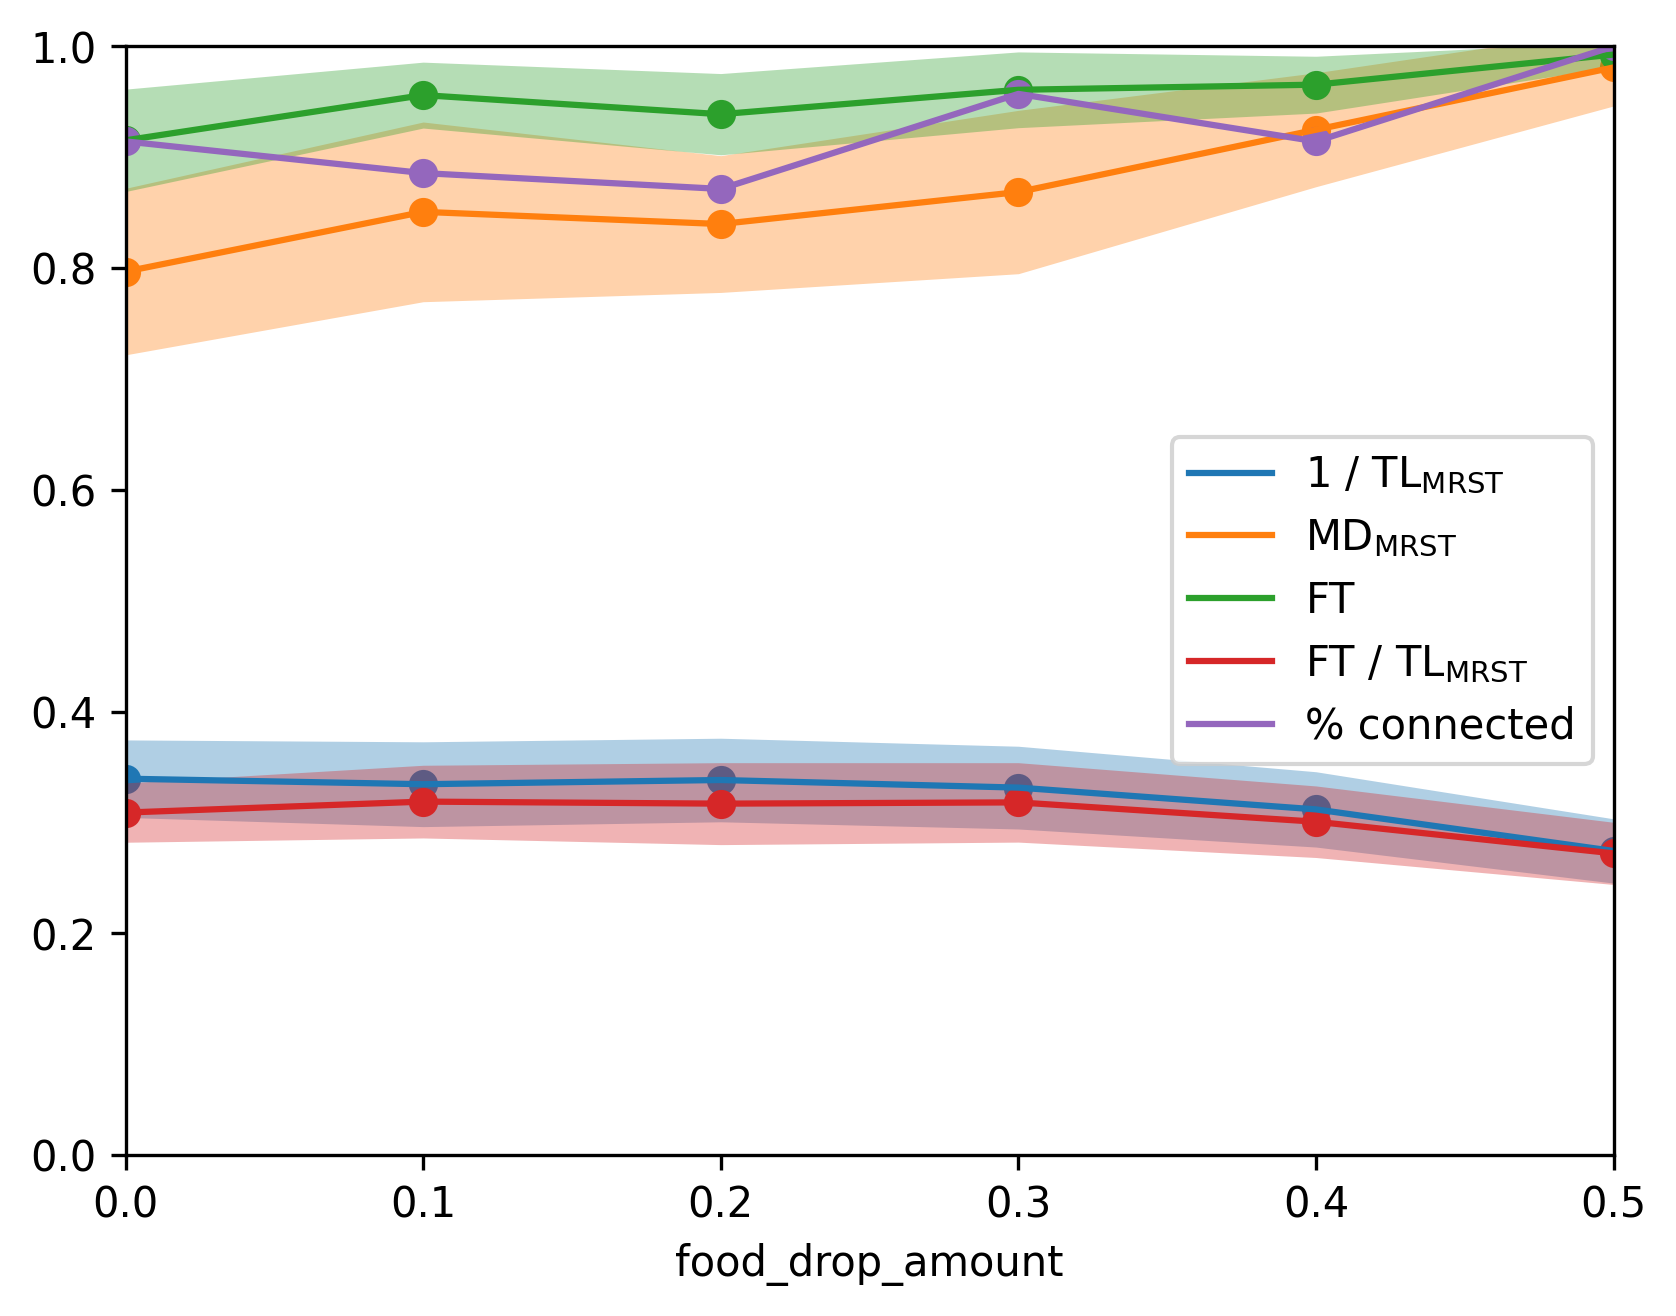
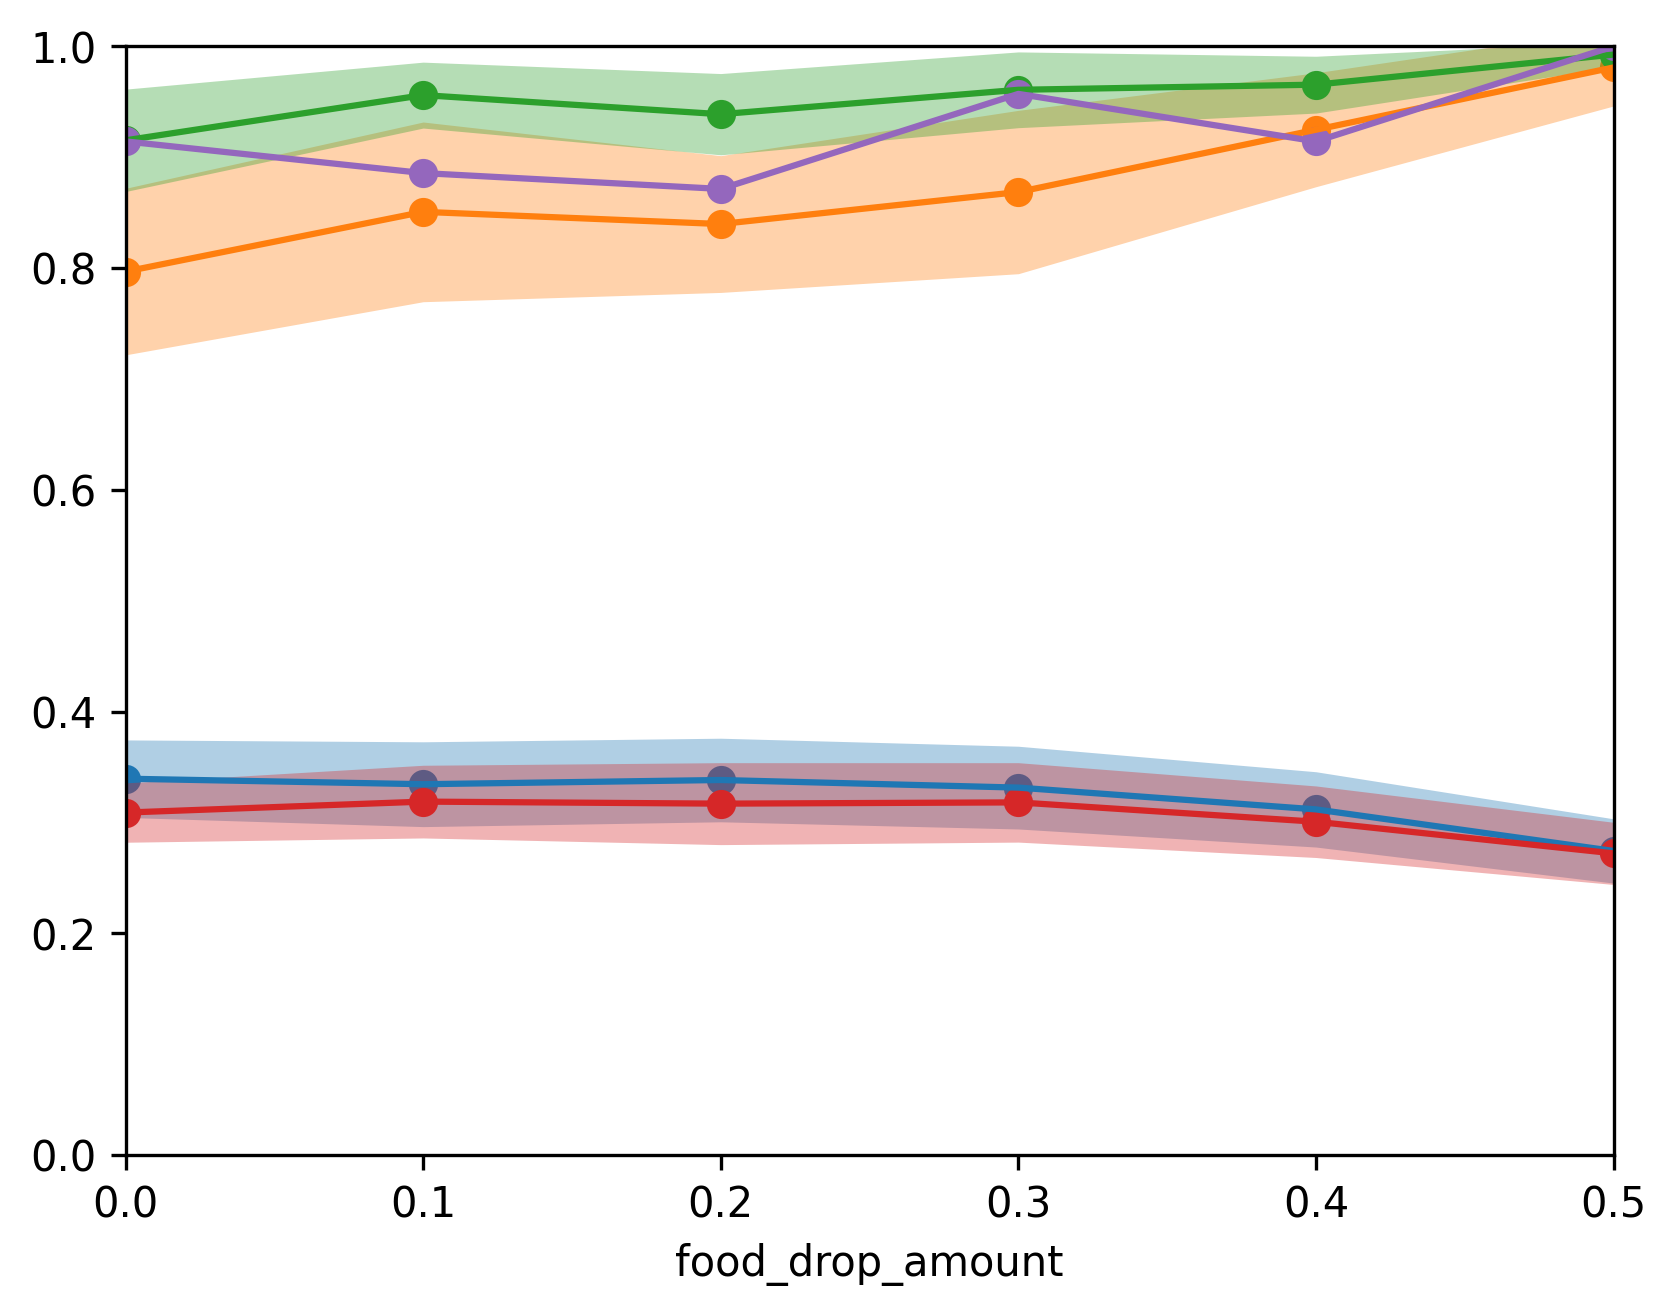
Add histogram plots

Changed region(s): [[0.6826, 0.3427, 0.9618, 0.5919]]

diff --git a/src/analysis.py b/src/analysis.py
@@ -70,8 +70,8 @@ def show_mst(data):
                 print()
 
 
-def compute_means(graphs, measures):
-    """Compute the means per food_setup for each of the measures."""
+def compute_means_reps(graphs, measures):
+    """Compute the means per repetition for each of the measures."""
     measures_means_reps = {measure: [] for measure in measures}  # save the repetition means
 
     for food_setup in range(len(graphs[0])):
@@ -88,12 +88,16 @@ def compute_means(graphs, measures):
             if len(measure_data) > 0:
                 measures_means_reps[measure].append(sum(measure_data) / len(measure_data))
 
-    # saves the final means
-    measures_mean_std = {
+    return measures_means_reps
+
+
+def compute_means(graphs, measures):
+    """Compute the means and stds per food_setup for each of the measures."""
+    measures_means_reps = compute_means_reps(graphs, measures)
+    return {
         measure: (np.mean(measure_means), np.std(measure_means))
         for measure, measure_means in measures_means_reps.items()
     }
-    return measures_mean_std
 
 
 def compute_connectedness(graphs):
@@ -167,7 +171,8 @@ def plot_all(data, measures):
             plot_oneline(data, parameter_name, means, stds, info['name'], info['color'])
         plot_connected(data, parameter_name, total_connected, 'tab:purple')
 
-        plt.legend()
+        if not 'starvation_penalty' in data or parameter_name == 'starvation_penalty':
+            plt.legend()
 
         # save the figure
         pathlib.Path('../figures').mkdir(parents=True, exist_ok=True)
@@ -175,6 +180,30 @@ def plot_all(data, measures):
 
         plt.close()
         # plt.show()
+
+
+def plot_hist(data, measures):
+    for parameter_name in data:
+        final_measures_means_reps = {measure: (dict(), info) for measure, info in measures.items()}
+
+        for parameter_value in data[parameter_name]:
+            print('processing', parameter_name, '=', parameter_value)
+            results = data[parameter_name][parameter_value]
+            graphs = scenes_to_graphs(results)
+
+            if check_enough(graphs):
+                print('not enough data for this batch')
+                continue
+
+            measures_means_reps = compute_means_reps(graphs, measures)
+            for measure, means_reps in measures_means_reps.items():
+                final_measures_means_reps[measure][0][parameter_value] = means_reps
+
+        for measure, (all_value_data, info) in final_measures_means_reps.items():
+            for parameter_value, value_data in all_value_data.items():
+                plt.hist(value_data, bins=5)
+                plt.xlabel(f'{info['name']}, {parameter_name} = {parameter_value}')
+                plt.show()
 
 
 if __name__ == '__main__':
@@ -204,7 +233,8 @@ if __name__ == '__main__':
     # specify here which experiments you want to load in
     # parameter_setups = {
     #     'initial_population_density': [.01, .04, .07, .1, .3, .5],
-    #     'elimination_threshold': [-5, -10, -15, -20, -25, -30]
+    #     # 'elimination_threshold': [-5, -10, -15, -20, -25, -30]
     # }
     data = load_data('../results')#, parameter_setups)
-    plot_all(data, measures)
+    # plot_all(data, measures)
+    plot_hist(data, measures)
